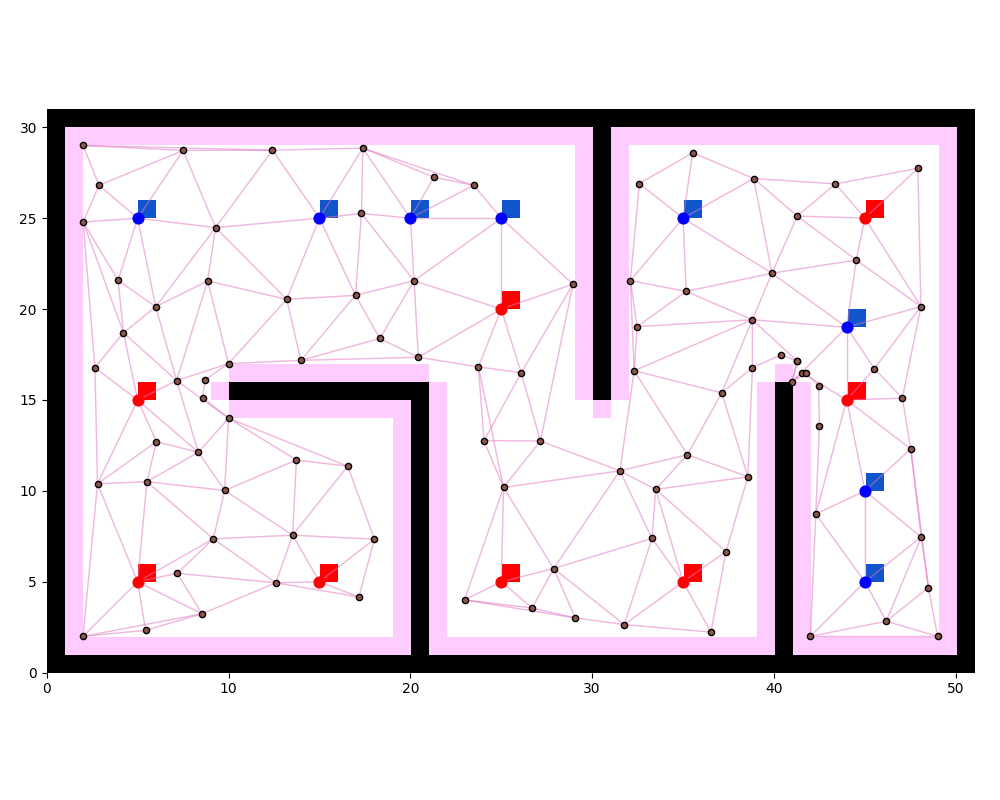
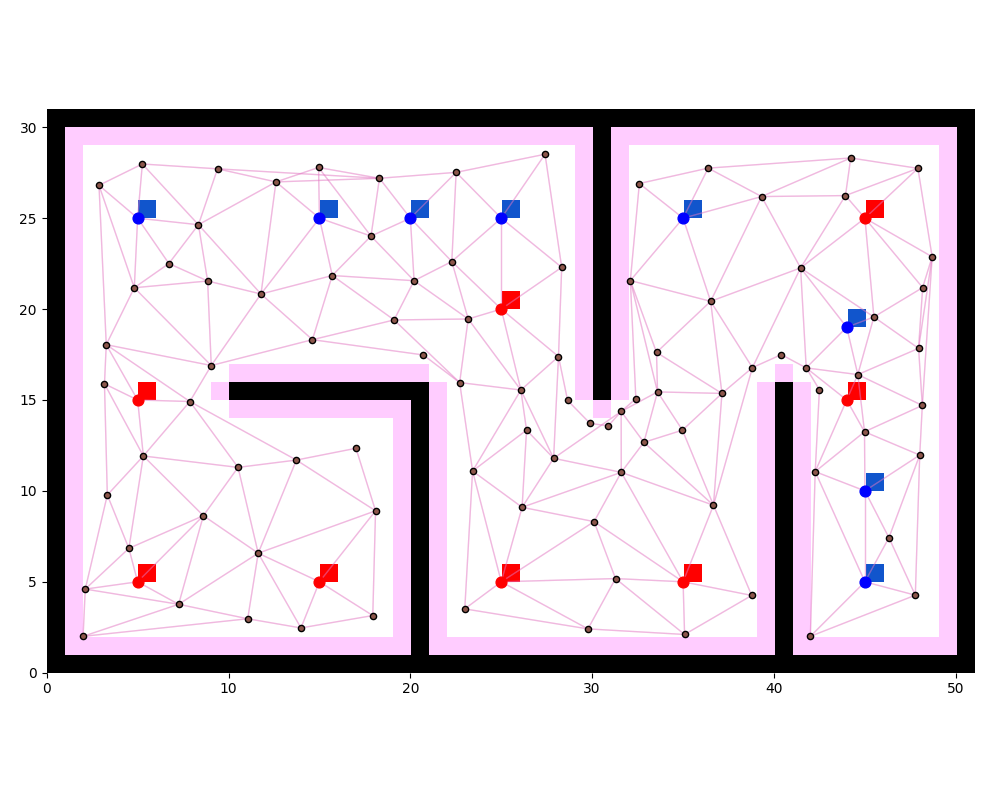
Script/Test for CTopPRM, kMeans, and EM

diff --git a/tests/test_kmeans.py b/tests/test_kmeans.py
@@ -1,0 +1,184 @@
+"""
+Tests for the graph-aware k-means (path_planning/cluster/kmeans/).
+python -m unittest tests.test_kmeans -v
+"""
+
+import unittest
+
+import numpy as np
+
+try:
+    from path_planning.common.environment.map.graph_sampler import GraphSampler
+    from path_planning.cluster.CTopPRMpy.ctopprm import CTopPRM
+    from path_planning.cluster.kmeans.graph_kmeans import (
+        GraphKMeans,
+        build_symmetric_adjacency,
+        multi_source_dijkstra,
+    )
+    from path_planning.utils.util import obstacles_world_to_grid, set_global_seed
+
+    _IMPORTS_OK = True
+    _IMPORT_ERROR = ""
+except ModuleNotFoundError as exc:  # pragma: no cover
+    _IMPORTS_OK = False
+    _IMPORT_ERROR = str(exc)
+
+
+def _build_block_map(starts, goals, sample_num=400):
+    """20x20 continuous map with a central 4x8 vertical block."""
+    obstacles_world = np.array(
+        [(x + 0.5, y + 0.5) for x in range(8, 12) for y in range(6, 14)]
+    )
+    map_ = GraphSampler(
+        bounds=[[0.0, 20.0], [0.0, 20.0]],
+        resolution=1.0,
+        start=list(starts),
+        goal=list(goals),
+        use_discrete_space=False,
+    )
+    map_.set_obstacles(obstacles_world_to_grid(map_, obstacles_world, 1.0))
+    map_.update_esdf()
+    map_.set_start(list(starts))
+    map_.set_goal(list(goals))
+    map_.set_parameters(
+        sample_num=sample_num, num_neighbors=13, min_edge_len=1e-10, max_edge_len=5.0
+    )
+    nodes = map_.generateRandomNodes()
+    map_.generate_roadmap(nodes)
+    return map_
+
+
+START = (2.0, 10.0)
+GOAL = (18.0, 10.0)
+SEEDS = [START, GOAL, (2.0, 3.0), (18.0, 17.0)]
+K = 8
+
+
+@unittest.skipUnless(_IMPORTS_OK, f"imports failed: {_IMPORT_ERROR}")
+class TestGraphKMeans(unittest.TestCase):
+    @classmethod
+    def setUpClass(cls):
+        set_global_seed(42)
+        cls.map_ = _build_block_map([START], [GOAL])
+        cls.km = GraphKMeans(cls.map_, K).fit(SEEDS)
+
+    def test_fixed_seeds_stay_fixed(self):
+        km = self.km
+        for k, seed in enumerate(SEEDS):
+            s = km.resolve_endpoint(seed)
+            self.assertEqual(km.center_node_indices[k], s)
+            self.assertEqual(int(km.cluster_labels[s]), k)
+            self.assertEqual(km.dist[s], 0.0)
+            self.assertTrue(km.center_is_fixed[k])
+            np.testing.assert_allclose(km.centers[k], km._points[s])
+
+    def test_cluster_count_and_coverage(self):
+        km = self.km
+        self.assertEqual(len(km.center_node_indices), km.n_clusters)
+        self.assertEqual(km.n_clusters, K)
+        finite = np.isfinite(km.dist)
+        # label -1 exactly on unreachable nodes
+        self.assertTrue(np.all(km.cluster_labels[finite] >= 0))
+        self.assertTrue(np.all(km.cluster_labels[~finite] == -1))
+        self.assertTrue(np.all(km.cluster_labels[finite] < km.n_clusters))
+        # prev forest of a member walks back to its own cluster's anchor
+        for k in range(km.n_clusters):
+            members = np.flatnonzero(km.cluster_labels == k)
+            self.assertGreater(members.size, 0)
+            node = int(members[np.argmax(km.dist[members])])
+            while km.prev[node] >= 0:
+                node = int(km.prev[node])
+            self.assertEqual(node, km.center_node_indices[k])
+
+    def test_centroids_free_or_snapped(self):
+        km = self.km
+        for k in range(km.n_clusters):
+            if km.center_is_fixed[k]:
+                continue
+            if km.center_snapped[k]:
+                np.testing.assert_allclose(
+                    km.centers[k], km._points[km.center_node_indices[k]]
+                )
+            else:
+                self.assertTrue(self.map_.point_expandable(tuple(km.centers[k])))
+
+    def test_convergence(self):
+        km = self.km
+        self.assertLessEqual(km.n_iter_, km.max_iters)
+        self.assertEqual(len(km.inertia_history), km.n_iter_)
+        self.assertTrue(all(np.isfinite(v) for v in km.inertia_history))
+
+    def test_k_equals_seeds_matches_wavefront(self):
+        # With no free centers there is nothing to move: fit converges in
+        # one iteration to the plain multi-source Dijkstra partition.
+        km = GraphKMeans(self.map_, len(SEEDS)).fit(SEEDS)
+        self.assertEqual(km.n_iter_, 1)
+        self.assertEqual(
+            km.center_node_indices, [km.resolve_endpoint(s) for s in SEEDS]
+        )
+        points = np.asarray([n.current for n in self.map_.nodes], dtype=float)
+        adj = build_symmetric_adjacency(
+            points,
+            self.map_.road_map,
+            getattr(self.map_, "road_map_edge_weights", None),
+        )
+        labels, dist, prev = multi_source_dijkstra(adj, km.center_node_indices)
+        np.testing.assert_array_equal(km.cluster_labels, labels)
+        np.testing.assert_array_equal(km.prev, prev)
+        np.testing.assert_allclose(km.dist, dist)
+        # ... and to CTopPRM's own wavefront fill (cross-implementation check).
+        planner = CTopPRM(self.map_)
+        planner._wavefront_fill(km.center_node_indices)
+        np.testing.assert_array_equal(km.cluster_labels, planner.cluster_labels)
+        np.testing.assert_array_equal(km.prev, planner.prev)
+        np.testing.assert_allclose(km.dist, planner.dist)
+
+    def test_reproducibility(self):
+        set_global_seed(7)
+        a = GraphKMeans(self.map_, K).fit(SEEDS)
+        set_global_seed(7)
+        b = GraphKMeans(self.map_, K).fit(SEEDS)
+        self.assertEqual(a.center_node_indices, b.center_node_indices)
+        np.testing.assert_array_equal(a.cluster_labels, b.cluster_labels)
+        np.testing.assert_allclose(a.centers, b.centers)
+
+    def test_validation(self):
+        with self.assertRaises(ValueError):
+            GraphKMeans(self.map_, 1).fit(SEEDS)  # k < #fixed
+        with self.assertRaises(ValueError):
+            GraphKMeans(self.map_, K).fit([START, START])  # duplicate seeds
+        with self.assertRaises(ValueError):
+            GraphKMeans(self.map_, K, init="bogus")
+
+    def test_clusters_respect_obstacle(self):
+        # Graph-aware assignment: no cluster may straddle the central block
+        # by pairing a member with a center on the opposite side at the
+        # block's mid-height band (Euclidean k-means would).
+        km = self.km
+        block_lo, block_hi = 8.0, 12.0
+        for k in range(km.n_clusters):
+            members = np.flatnonzero(km.cluster_labels == k)
+            pts = km._points[members]
+            cx = km.centers[k][0]
+            band = pts[np.abs(pts[:, 1] - 10.0) < 2.0]
+            if cx <= block_lo:
+                self.assertTrue(np.all(band[:, 0] < block_hi))
+            elif cx >= block_hi:
+                self.assertTrue(np.all(band[:, 0] > block_lo))
+
+    def test_ctopprm_kmeans_clustering(self):
+        set_global_seed(42)
+        map_ = _build_block_map([START], [GOAL])
+        planner = CTopPRM(map_, clustering="kmeans", kmeans_clusters=6)
+        results = planner.find_distinct_paths([(START, GOAL)])
+        paths = next(iter(results.values()))
+        self.assertGreaterEqual(len(paths), 2)
+        # endpoint seeds keep the positional contract after k-means seeding
+        self.assertGreaterEqual(len(planner.seed_indices), 6)
+        for k, seed in enumerate(planner.seed_indices):
+            self.assertEqual(int(planner.cluster_labels[seed]), k)
+            self.assertEqual(planner.dist[seed], 0.0)
+
+
+if __name__ == "__main__":
+    unittest.main()

diff --git a/scripts/roadmaps/run_em.py b/scripts/roadmaps/run_em.py
@@ -15,6 +15,8 @@ if _PROJECT_ROOT not in sys.path:
     sys.path.insert(0, _PROJECT_ROOT)
 
 import matplotlib.pyplot as plt
+import numpy as np
+from matplotlib.patches import Ellipse
 
 from path_planning.cluster.CTopPRMpy.ctopprm import CTopPRM
 from path_planning.common.visualizer.visualizer_2d import Visualizer2D
@@ -54,7 +56,7 @@ if __name__ == "__main__":
     # components whose anchors follow the responsibility-weighted centroids.
     num_endpoint_seeds = len(dict.fromkeys(starts + goals))
     k = num_endpoint_seeds + 84
-    planner = CTopPRM(map_, clustering="em", em_clusters=k)
+    planner = CTopPRM(map_, clustering="em", min_clusters=k)
     pairs = list(zip(starts, goals))
 
     st = time.time()
@@ -62,12 +64,34 @@ if __name__ == "__main__":
     print(f"CTopPRM (em): {time.time() - st:.2f}s, seeds "
           f"{num_endpoint_seeds} -> {len(planner.seed_indices)} clusters")
 
-    # --- clusters figure: nodes colored by cluster, seeds marked ---
+    # --- clusters figure: nodes colored by cluster, seeds marked, and the
+    # fitted mixture drawn as 1/2-sigma covariance ellipses per component ---
     vis = Visualizer2D()
     vis.plot_grid_map(map_)
     vis.plot_road_map(map_, map_.nodes, map_.road_map,
                       node_value=planner.cluster_labels,
                       cmap=plt.get_cmap('tab20'), edge_alpha=0.15)
+    em = planner.cluster_model
+    if em is not None:
+        # Keep the big 2-sigma ellipses from expanding the autoscaled
+        # axes limits; they get clipped at the map bounds instead.
+        xlim, ylim = vis.ax.get_xlim(), vis.ax.get_ylim()
+        for k, (idx, cov) in enumerate(
+            zip(em.center_node_indices, em.covariances_)
+        ):
+            vals, vecs = np.linalg.eigh(cov)
+            angle = float(np.degrees(np.arctan2(vecs[1, -1], vecs[0, -1])))
+            for n_std, style in ((1.0, '-'), (2.0, '--')):
+                vis.ax.add_patch(Ellipse(
+                    xy=em._points[idx],
+                    width=2.0 * n_std * float(np.sqrt(vals[-1])),
+                    height=2.0 * n_std * float(np.sqrt(vals[0])),
+                    angle=angle, fill=False, edgecolor='black',
+                    linestyle=style, linewidth=0.9, alpha=0.45, zorder=55,
+                    label=f'components $\\pm{int(n_std)}\\sigma$' if k == 0 else None,
+                ))
+        vis.ax.set_xlim(xlim)
+        vis.ax.set_ylim(ylim)
     seed_pts = planner._points[planner.seed_indices]
     fixed_pts = seed_pts[:num_endpoint_seeds]
     free_pts = seed_pts[num_endpoint_seeds:]
@@ -76,7 +100,11 @@ if __name__ == "__main__":
     if len(free_pts):
         vis.ax.scatter(free_pts[:, 0], free_pts[:, 1], c='black', marker='^',
                        s=120, zorder=60, label='EM / refinement seeds')
-    vis.ax.legend(loc='upper right', fontsize=8)
+    handles, labels = vis.ax.get_legend_handles_labels()
+    keep = [(h, l) for h, l in zip(handles, labels)
+            if l.startswith(('Fixed', 'EM', 'components'))]
+    legend = vis.ax.legend(*zip(*keep), loc='upper right', fontsize=8)
+    legend.set_zorder(100)
     vis.savefig(f'{OUT_DIR}/em_2d.png')
     vis.close()
 

diff --git a/tests/test_em.py b/tests/test_em.py
@@ -105,6 +105,20 @@ class TestGraphEM(unittest.TestCase):
         self.assertAlmostEqual(float(em.weights_.sum()), 1.0, places=9)
         self.assertTrue(np.all(em.weights_ > 0.0))
         self.assertTrue(np.all(em.sigmas_ >= em.min_sigma))
+        # full covariances: symmetric, eigenvalue-floored, and sigmas_ is
+        # the effective width sqrt(trace/dim)
+        covs = em.covariances_
+        dim = em._points.shape[1]
+        self.assertEqual(covs.shape, (em.n_clusters, dim, dim))
+        for k in range(em.n_clusters):
+            np.testing.assert_allclose(covs[k], covs[k].T)
+            self.assertGreaterEqual(
+                float(np.linalg.eigvalsh(covs[k]).min()),
+                em.min_sigma ** 2 - 1e-9,
+            )
+        np.testing.assert_allclose(
+            em.sigmas_, np.sqrt(np.trace(covs, axis1=1, axis2=2) / dim)
+        )
 
     def test_hard_state_matches_wavefront(self):
         # Finalization contract: cluster_labels/dist/prev are the wavefront
@@ -176,6 +190,7 @@ class TestGraphEM(unittest.TestCase):
         np.testing.assert_array_equal(a.cluster_labels, b.cluster_labels)
         np.testing.assert_allclose(a.centers, b.centers)
         np.testing.assert_allclose(a.responsibilities, b.responsibilities)
+        np.testing.assert_allclose(a.covariances_, b.covariances_)
 
     def test_validation(self):
         with self.assertRaises(ValueError):

diff --git a/tests/test_ctopprm.py b/tests/test_ctopprm.py
@@ -1,5 +1,5 @@
 """
-Tests for the Python CTopPRM (path_planning/cluster/).
+Tests for the Python CTopPRM (path_planning/cluster/CTopPRMpy/).
 python -m unittest tests.test_ctopprm -v
 """
 
@@ -9,8 +9,8 @@ import numpy as np
 
 try:
     from path_planning.common.environment.map.graph_sampler import GraphSampler
-    from path_planning.cluster.ctopprm import CTopPRM
-    from path_planning.cluster.shortening import path_length, polyline_free_sampled
+    from path_planning.cluster.CTopPRMpy.ctopprm import CTopPRM
+    from path_planning.cluster.CTopPRMpy.shortening import path_length, polyline_free_sampled
     from path_planning.utils.util import obstacles_world_to_grid, set_global_seed
 
     _IMPORTS_OK = True

diff --git a/scripts/roadmaps/run_kmeans.py b/scripts/roadmaps/run_kmeans.py
@@ -54,7 +54,7 @@ if __name__ == "__main__":
     # clusters whose centers track the member centroids.
     num_endpoint_seeds = len(dict.fromkeys(starts + goals))
     k = num_endpoint_seeds + 84
-    planner = CTopPRM(map_, clustering="kmeans", kmeans_clusters=k)
+    planner = CTopPRM(map_, clustering="kmeans", min_clusters=k)
     pairs = list(zip(starts, goals))
 
     st = time.time()
